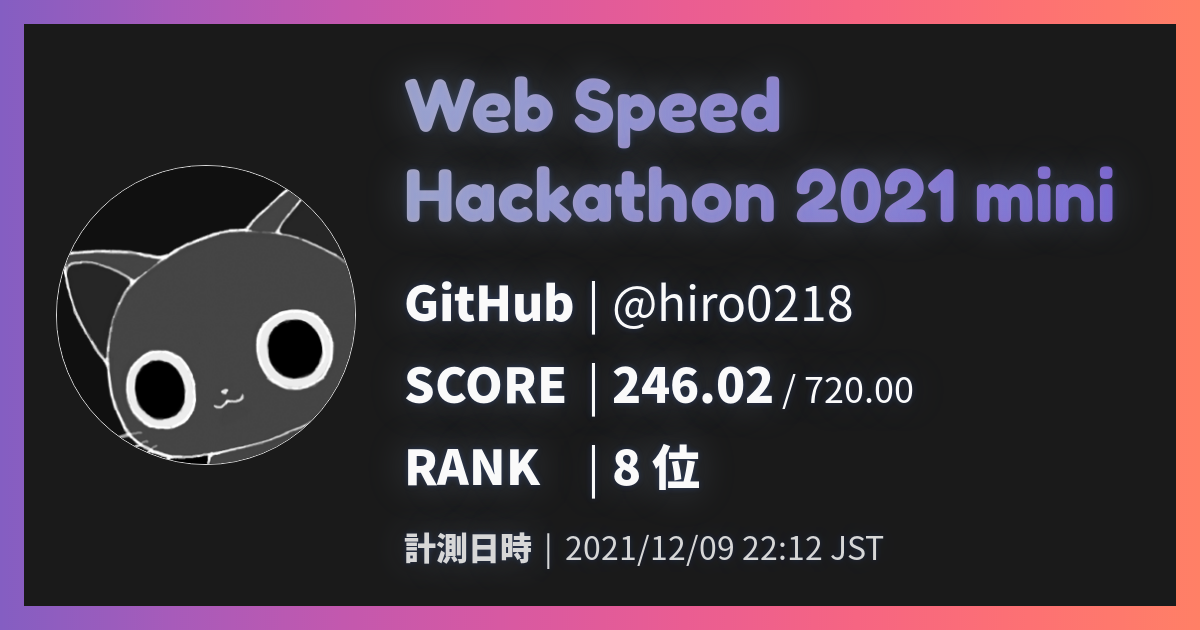
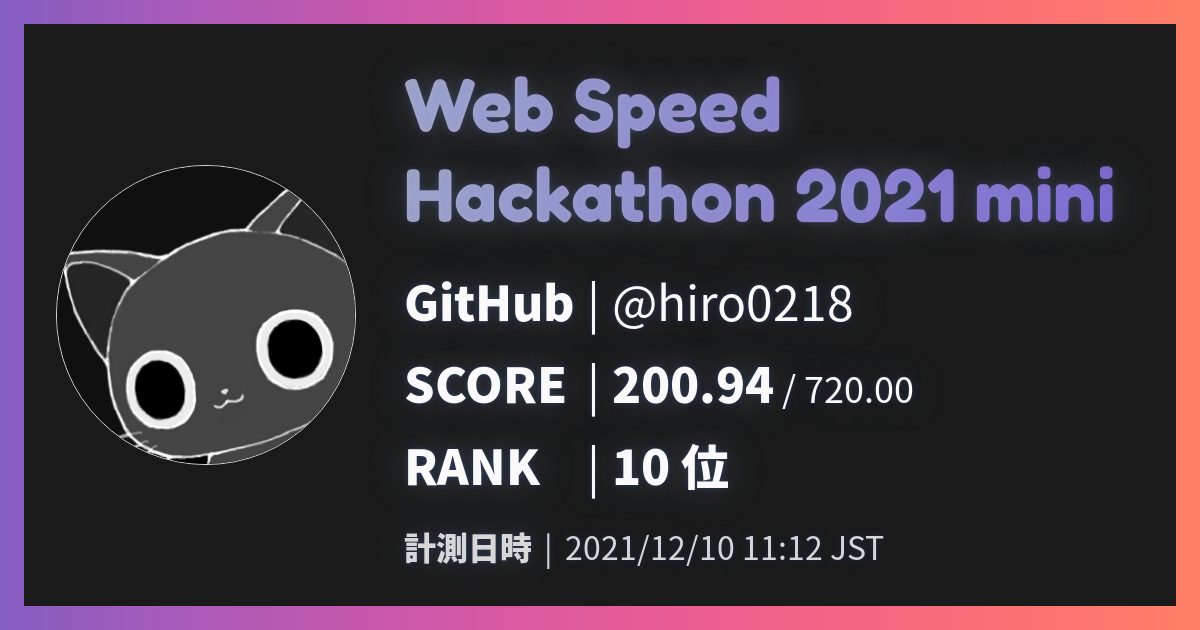
deploy: ce24a61ecb9c37654d95f75feab214f0dadae73e

Changed region(s): [[0.4933, 0.6937, 0.6167, 0.7841], [0.5242, 0.573, 0.6475, 0.6333], [0.5858, 0.8444, 0.6475, 0.9048]]

diff --git a/scores/hiro0218/index.html b/scores/hiro0218/index.html
@@ -14,7 +14,7 @@
   />
   <meta
     property="twitter:image"
-    content="https://cyberagenthack.github.io/web-speed-hackathon-2021-leaderboard/scores/hiro0218/ogp.png?_=1639056796619"
+    content="https://cyberagenthack.github.io/web-speed-hackathon-2021-leaderboard/scores/hiro0218/ogp.png?_=1639102169497"
   />
   <body></body>
 </html>
